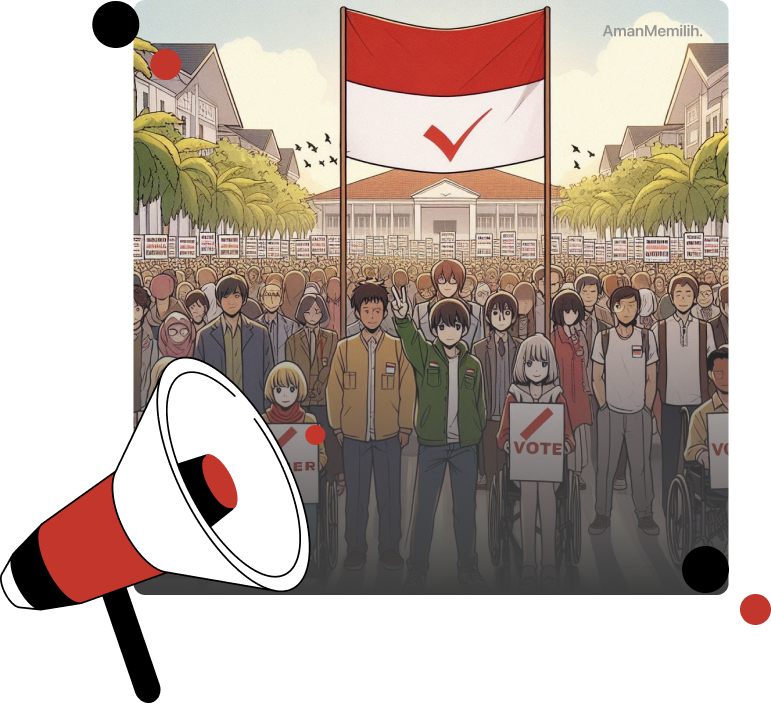
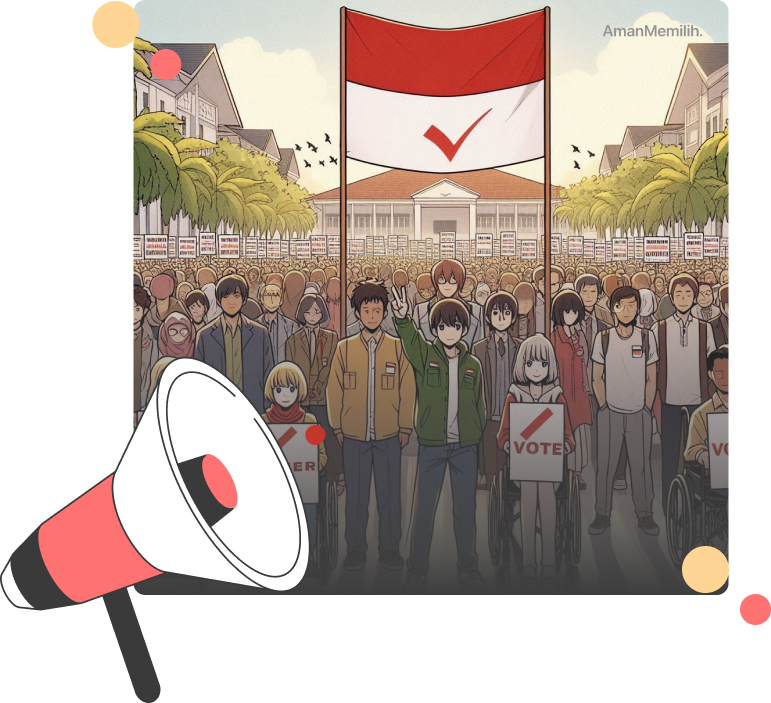
add particlejs and minor updates

diff --git a/index.html b/index.html
@@ -5,6 +5,7 @@
     <meta name="viewport" content="width=device-width, initial-scale=1.0" />
     <title>AmanMemilih</title>
     <script src="https://cdn.tailwindcss.com"></script>
+    <script src="https://cdn.jsdelivr.net/particles.js/2.0.0/particles.min.js"></script>
     <link rel="preconnect" href="https://fonts.googleapis.com" />
     <link rel="preconnect" href="https://fonts.gstatic.com" crossorigin />
     <link href="https://fonts.cdnfonts.com/css/alata" rel="stylesheet" />
@@ -33,38 +34,153 @@
       </header>
     </nav>
 
-  <!-- Content -->
-  <div class="md:container md:mx-auto">
-    <div class="grid grid-cols-2 p-8 place-items-center">
-      <div>
-        <p class="font-medium text-[60px] md:text-[40] font-">
-          Pemungutan Suara Modern dengan Keamanan Tinggi dan Fleksibilitas
-        </p>
-        <p class="font-normal text-[20px] md:text-[10] mt-12">
-          Dengan AmanMemilih voting dimanapun tanpa ada kecurangan dan human
-          error didalam demokrasi. Dengan menggunakan teknologi blockchain
-          yang terdesentralisasi dan transparan.
-        </p>
-        <button class="font-normal text-[20] bg-[#191A23] text-white px-10 py-4 rounded-lg mt-12">
-          Unduh Sekarang
-        </button>
+    <!-- Content -->
+    <div class="md:container md:mx-auto">
+      <div class="grid grid-cols-2 p-8 place-items-center">
+        <div>
+          <p class="font-bold text-[60px] md:text-[40] font-" style="font-family: 'Plus Jakarta Sans'">
+            Pemungutan Suara Modern dengan Keamanan Tinggi dan Fleksibilitas
+          </p>
+          <p class="font-normal text-[20px] md:text-[10] mt-12" style="font-family: 'Plus Jakarta Sans'">
+            Dengan AmanMemilih voting dimanapun tanpa ada kecurangan dan human
+            error didalam demokrasi. Dengan menggunakan teknologi blockchain
+            yang terdesentralisasi dan transparan.
+          </p>
+          <button class="font-normal text-[20] bg-gradient-to-b from-[#FF7272]/80 via-[#FF7272]/80 to-[#FFD596]/80 text-white px-10 py-4 rounded-lg mt-12">
+            Unduh Sekarang
+          </button>
+        </div>
+        <div class="items-center">
+          <img src="assets/Illustration.png" alt="" />
+        </div>
       </div>
-      <div class="items-center">
-        <img src="assets/Illustration.png" alt="" />
-      </div>
+      <!-- Particle.js Background -->
+      <div id="particles-js" class="absolute left-0 right-0 top-0 bottom-0 z-0 overflow-hidden mt-20"></div>
+      <script src="https://cdn.jsdelivr.net/particles.js/2.0.0/particles.min.js"></script>
+      <script>
+        particlesJS("particles-js", {
+          particles: {
+            number: {
+              value: 80,
+              density: {
+                enable: true,
+                value_area: 800,
+              },
+            },
+            color: {
+              value: "#3A3A3A",
+            },
+            shape: {
+              type: "circle",
+              stroke: {
+                width: 0,
+                color: "#000000",
+              },
+              polygon: {
+                nb_sides: 5,
+              },
+              image: {
+                src: "img/github.svg",
+                width: 100,
+                height: 100,
+              },
+            },
+            opacity: {
+              value: 0.5,
+              random: false,
+              anim: {
+                enable: false,
+                speed: 1,
+                opacity_min: 0.1,
+                sync: false,
+              },
+            },
+            size: {
+              value: 3,
+              random: true,
+              anim: {
+                enable: false,
+                speed: 40,
+                size_min: 0.1,
+                sync: false,
+              },
+            },
+            line_linked: {
+              enable: true,
+              distance: 150,
+              color: "#3A3A3A",
+              opacity: 0.4,
+              width: 1,
+            },
+            move: {
+              enable: true,
+              speed: 6,
+              direction: "none",
+              random: false,
+              straight: false,
+              out_mode: "out",
+              bounce: false,
+              attract: {
+                enable: false,
+                rotateX: 600,
+                rotateY: 1200,
+              },
+            },
+          },
+          interactivity: {
+            detect_on: "canvas",
+            events: {
+              onhover: {
+                enable: true,
+                mode: "repulse",
+              },
+              onclick: {
+                enable: true,
+                mode: "push",
+              },
+              resize: true,
+            },
+            modes: {
+              grab: {
+                distance: 400,
+                line_linked: {
+                  opacity: 1,
+                },
+              },
+              bubble: {
+                distance: 400,
+                size: 40,
+                duration: 2,
+                opacity: 8,
+                speed: 3,
+              },
+              repulse: {
+                distance: 200,
+                duration: 0.4,
+              },
+              push: {
+                particles_nb: 4,
+              },
+              remove: {
+                particles_nb: 2,
+              },
+            },
+          },
+          retina_detect: true,
+        });
+      </script>
     </div>
-  </div>
 
     <!-- ----- SECTION CARD INFO ----- -->
 
     <div class="flex items-center justify-center space-x-16 my-24 mb-48 px-4">
-      <span class="text-black text-6xl font-bold mr-[-60px]">Aman</span><span class="text-[#FF7272] text-6xl font-bold">Memilih</span>
+      <span class="text-black text-5xl font-bold mr-[-60px]">Aman</span><span class="text-[#FF7272] text-5xl font-bold">Memilih</span>
       <p class="text-gray-700 text-lg max-w-4xl" style="font-family: 'Plus Jakarta Sans'">
         Aplikasi berbasis teknologi blockchain dengan sistem yang tidak terpusat dan menjamin keamanan data, terutama data suara dan data pengguna. Kami menjaga informasi, menjamin integritas data, keamanan, dan mengeliminasi kemungkinan
         bocornya suatu informasi.
       </p>
     </div>
-  </div>
+
 
     <!-- Container Box -->
     <div class="container mx-auto flex flex-row mb-4 justify-between space-x-4">

diff --git a/hasil.html b/hasil.html
@@ -54,11 +54,122 @@
         </section>
       </div>
     </main>
-    <div class="absolute left-0 right-0 top-0 bottom-0 z-0 overflow-hidden mt-20">
-      <video autoplay muted loop class="min-w-full min-h-full object-cover opacity-20">
-        <source src="assets/plexus.mp4" type="video/mp4" />
-      </video>
-    </div>
+
+    <!-- Particle.js Background -->
+    <div id="particles-js" class="absolute left-0 right-0 top-0 bottom-0 z-0 overflow-hidden mt-20"></div>
+    <script src="https://cdn.jsdelivr.net/particles.js/2.0.0/particles.min.js"></script>
+    <script>
+      particlesJS("particles-js", {
+        particles: {
+          number: {
+            value: 80,
+            density: {
+              enable: true,
+              value_area: 800,
+            },
+          },
+          color: {
+            value: "#3A3A3A",
+          },
+          shape: {
+            type: "circle",
+            stroke: {
+              width: 0,
+              color: "#000000",
+            },
+            polygon: {
+              nb_sides: 5,
+            },
+            image: {
+              src: "img/github.svg",
+              width: 100,
+              height: 100,
+            },
+          },
+          opacity: {
+            value: 0.5,
+            random: false,
+            anim: {
+              enable: false,
+              speed: 1,
+              opacity_min: 0.1,
+              sync: false,
+            },
+          },
+          size: {
+            value: 3,
+            random: true,
+            anim: {
+              enable: false,
+              speed: 40,
+              size_min: 0.1,
+              sync: false,
+            },
+          },
+          line_linked: {
+            enable: true,
+            distance: 150,
+            color: "#3A3A3A",
+            opacity: 0.4,
+            width: 1,
+          },
+          move: {
+            enable: true,
+            speed: 6,
+            direction: "none",
+            random: false,
+            straight: false,
+            out_mode: "out",
+            bounce: false,
+            attract: {
+              enable: false,
+              rotateX: 600,
+              rotateY: 1200,
+            },
+          },
+        },
+        interactivity: {
+          detect_on: "canvas",
+          events: {
+            onhover: {
+              enable: true,
+              mode: "repulse",
+            },
+            onclick: {
+              enable: true,
+              mode: "push",
+            },
+            resize: true,
+          },
+          modes: {
+            grab: {
+              distance: 400,
+              line_linked: {
+                opacity: 1,
+              },
+            },
+            bubble: {
+              distance: 400,
+              size: 40,
+              duration: 2,
+              opacity: 8,
+              speed: 3,
+            },
+            repulse: {
+              distance: 200,
+              duration: 0.4,
+            },
+            push: {
+              particles_nb: 4,
+            },
+            remove: {
+              particles_nb: 2,
+            },
+          },
+        },
+        retina_detect: true,
+      });
+    </script>
 
     <!-- Popup Modal -->
     <div id="popup" class="fixed inset-0 hidden z-50 flex items-center justify-center bg-black bg-opacity-75">
@@ -94,16 +205,16 @@
           <p class="text-sm text-gray-500 mb-2 text-center">Connect With Us</p>
           <div class="flex space-x-2">
             <!-- Ikon Facebook -->
-            <a href="#" class="w-8 h-8 flex items-center justify-center hover:bg-gray-300 ">
-              <img src="assets/logo_facebook.png" alt="Logo" class="h-5 w-auto"/>
+            <a href="#" class="w-8 h-8 flex items-center justify-center hover:bg-gray-300">
+              <img src="assets/logo_facebook.png" alt="Logo" class="h-5 w-auto" />
             </a>
             <!-- Ikon Instagram -->
             <a href="#" class="w-8 h-8 flex items-center justify-center hover:bg-gray-300">
-              <img src="assets/logo_ig.png" alt="Logo" class="h-6 w-auto"/>
+              <img src="assets/logo_ig.png" alt="Logo" class="h-6 w-auto" />
             </a>
             <!-- Ikon X -->
             <a href="#" class="w-8 h-8 flex items-center justify-center hover:bg-gray-300">
-              <img src="assets/logo_x.png" alt="Logo" class="h-6 w-auto"/>
+              <img src="assets/logo_x.png" alt="Logo" class="h-6 w-auto" />
             </a>
           </div>
         </div>
